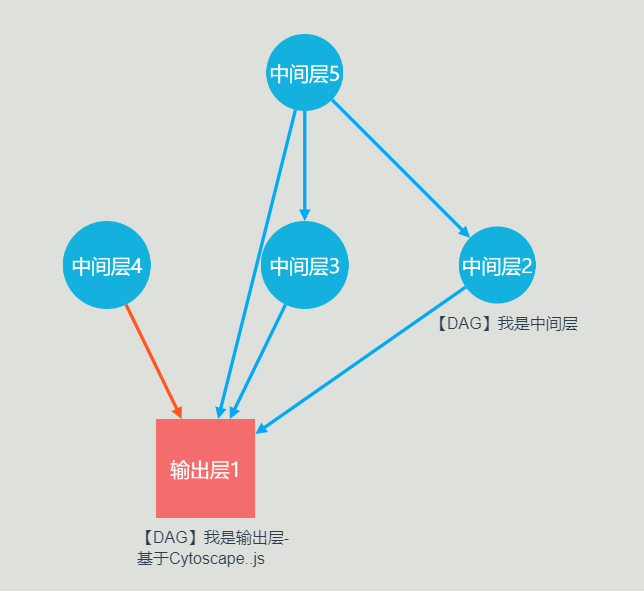
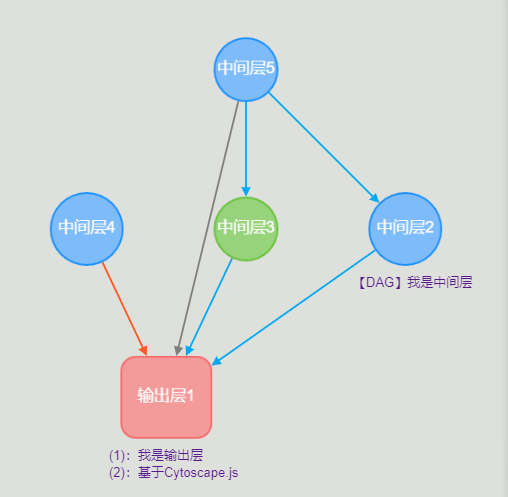
add

diff --git a/src/views/DAG.vue b/src/views/DAG.vue
@@ -19,27 +19,16 @@ export default {
   methods: {
     init() {
       const FONT_SIZE = "9px";
-      const FONT_FAMILY = "sans-serif";
+      const FONT_WEIGHT = 500;
+      const FONT_FAMILY = "serif";
       const LINE_HEIGHT = 1.2;
       const WHITE_COLOR = "#FFF";
-
-      const DULL_CALSSNAME = "dull";
-      const HOVER_CLASSNAME = "hover";
-
-      const SERVICE_NODE = "SERVICE_NODE";
-      const SYSTEM_NODE = "SYSTEM_NODE";
-      const API_NODE = "API_NODE";
-
-      const NODE_TYPE = "node";
-      const EDGE_TYPE = "edge";
-
-      const HIGHLIGHT_DURATION = 100;
       const viewportOptions = {
         boxSelectionEnabled: true,
         autounselectify: true,
         motionBlur: false,
-        maxZoom: 2.2,
-        minZoom: 1.5,
+        maxZoom: 1.8,
+        minZoom: 1,
         textureOnViewport: false
       };
 
@@ -47,14 +36,16 @@ export default {
         {
           selector: "node",
           style: {
+            "border-width": 1,
             "font-size": FONT_SIZE,
-            "font-family": FONT_FAMILY,
+            //"font-family": FONT_FAMILY,
+            "font-weight": FONT_WEIGHT,
             "line-height": LINE_HEIGHT,
             color: WHITE_COLOR,
             "text-halign": "center",
             "text-valign": "center",
             "text-wrap": "wrap",
-            "text-margin-y": 0,
+            "text-margin-y": -2,
             "text-max-width": 180,
             "text-background-padding": 3,
             label: node => node.data("formatLabel"),
@@ -62,6 +53,7 @@ export default {
             width: node => node.data("width"),
             height: node => node.data("height"),
             "background-color": node => node.data("backgroundColor"),
+            "border-color": node => node.data("borderColor"),
             "background-opacity": 1,
             "overlay-color": WHITE_COLOR,
             "overlay-opacity": 0,
@@ -80,9 +72,9 @@ export default {
             "font-family": FONT_FAMILY,
             "line-height": LINE_HEIGHT,
             color: "#333",
-            width: 1.5,
+            width: 1,
             "arrow-scale": 0.6,
-            label: edge => edge.data("label"),
+            //label: edge => edge.data("label"),
             "line-style": () => "solid",
             "line-color": edge => edge.data("lineColor"),
             "target-arrow-color": edge => edge.data("lineColor"),
@@ -145,8 +137,7 @@ export default {
         initialTemp: 200,
         coolingFactor: 0.95,
         minTemp: 1.0
-
-        // name: 'breadFirstxxx'
+        //name: 'breadFirstxxx'
         //directed: true
       };
 
@@ -161,21 +152,22 @@ export default {
               data: {
                 id: "1",
                 formatLabel: "输出层1",
-                shape: "rectangle",
-                backgroundColor: "#F56C6C",
-                width: 45,
+                shape: "round-rectangle",
+                backgroundColor: "#f39a9a",
+                borderColor: "#f56c6c",
+                width: 50,
                 height: 45
-              },
-              classes: "multiline-manual"
+              }
             },
             {
               data: {
                 id: "2",
                 formatLabel: "中间层2",
                 shape: "ellipse",
-                backgroundColor: "#15b1de",
-                width: 35,
-                height: 35
+                backgroundColor: "#7ebbfa",
+                borderColor: "#1890ff",
+                width: 40,
+                height: 40
               }
             },
             {
@@ -183,9 +175,10 @@ export default {
                 id: "3",
                 formatLabel: "中间层3",
                 shape: "ellipse",
-                backgroundColor: "#15b1de",
-                width: 40,
-                height: 40
+                backgroundColor: "#97d37a",
+                borderColor: "#67c23a",
+                width: 35,
+                height: 35
               }
             },
             {
@@ -193,7 +186,8 @@ export default {
                 id: "4",
                 formatLabel: "中间层4",
                 shape: "ellipse",
-                backgroundColor: "#15b1de",
+                backgroundColor: "#7ebbfa",
+                borderColor: "#1890ff",
                 width: 40,
                 height: 40
               }
@@ -203,7 +197,8 @@ export default {
                 id: "5",
                 formatLabel: "中间层5",
                 shape: "ellipse",
-                backgroundColor: "#15b1de",
+                backgroundColor: "#7ebbfa",
+                borderColor: "#1890ff",
                 width: 35,
                 height: 35
               }
@@ -214,8 +209,7 @@ export default {
               data: {
                 source: "5",
                 target: "1",
-                lineColor: "#03A9F4"
-                // label: "e51"
+                lineColor: "#7f7f7f"
               }
             },
             {
@@ -223,7 +217,6 @@ export default {
                 source: "5",
                 target: "3",
                 lineColor: "#03A9F4"
-                //label: "e53"
               }
             },
             {
@@ -231,7 +224,6 @@ export default {
                 source: "5",
                 target: "2",
                 lineColor: "#03A9F4"
-                // label: "e52"
               }
             },
             {
@@ -239,7 +231,6 @@ export default {
                 source: "4",
                 target: "1",
                 lineColor: "#ff5722"
-                // label: "e41"
               }
             },
             {
@@ -247,7 +238,6 @@ export default {
                 source: "3",
                 target: "1",
                 lineColor: "#03A9F4"
-                // label: "e31"
               }
             },
             {
@@ -255,44 +245,41 @@ export default {
                 source: "2",
                 target: "1",
                 lineColor: "#03A9F4"
-                //label: "e21"
               }
             }
           ]
         }
       });
 
-      var makeDiv = function(text) {
-        var a = document.createElement("a");
+      let makeDiv = function(text) {
+        let a = document.createElement("a");
         a.href = "https://github.com/mopacha/vue-dag";
         a.target = "_blank";
-        var link = document.createTextNode(text);
-        a.appendChild(link);
+        a.innerHTML = text;
         a.classList.add("popper-div");
-
         document.getElementById("cy").appendChild(a);
         return a;
       };
 
-      var node1 = cy.getElementById("1");
-      var node2 = cy.getElementById("2");
+      let node1 = cy.getElementById("1");
+      let node2 = cy.getElementById("2");
 
-      var popper1 = node1.popper({
+      let popper1 = node1.popper({
         content: function() {
-          return makeDiv("【DAG】我是输出层-<br>基于Cytoscape..js");
+          return makeDiv("(1)：我是输出层<br>(2)：基于Cytoscape.js");
         }
       });
 
-      var popper2 = node2.popper({
+      let popper2 = node2.popper({
         content: function() {
           return makeDiv("【DAG】我是中间层");
         }
       });
 
-      var update1 = function() {
+      let update1 = function() {
         popper1.scheduleUpdate();
       };
-      var update2 = function() {
+      let update2 = function() {
         popper2.scheduleUpdate();
       };
 
@@ -311,6 +298,7 @@ export default {
   width: 800px;
   height: 800px;
   .popper-div {
+    font-size: 13px;
     text-decoration: none;
   }
 }
